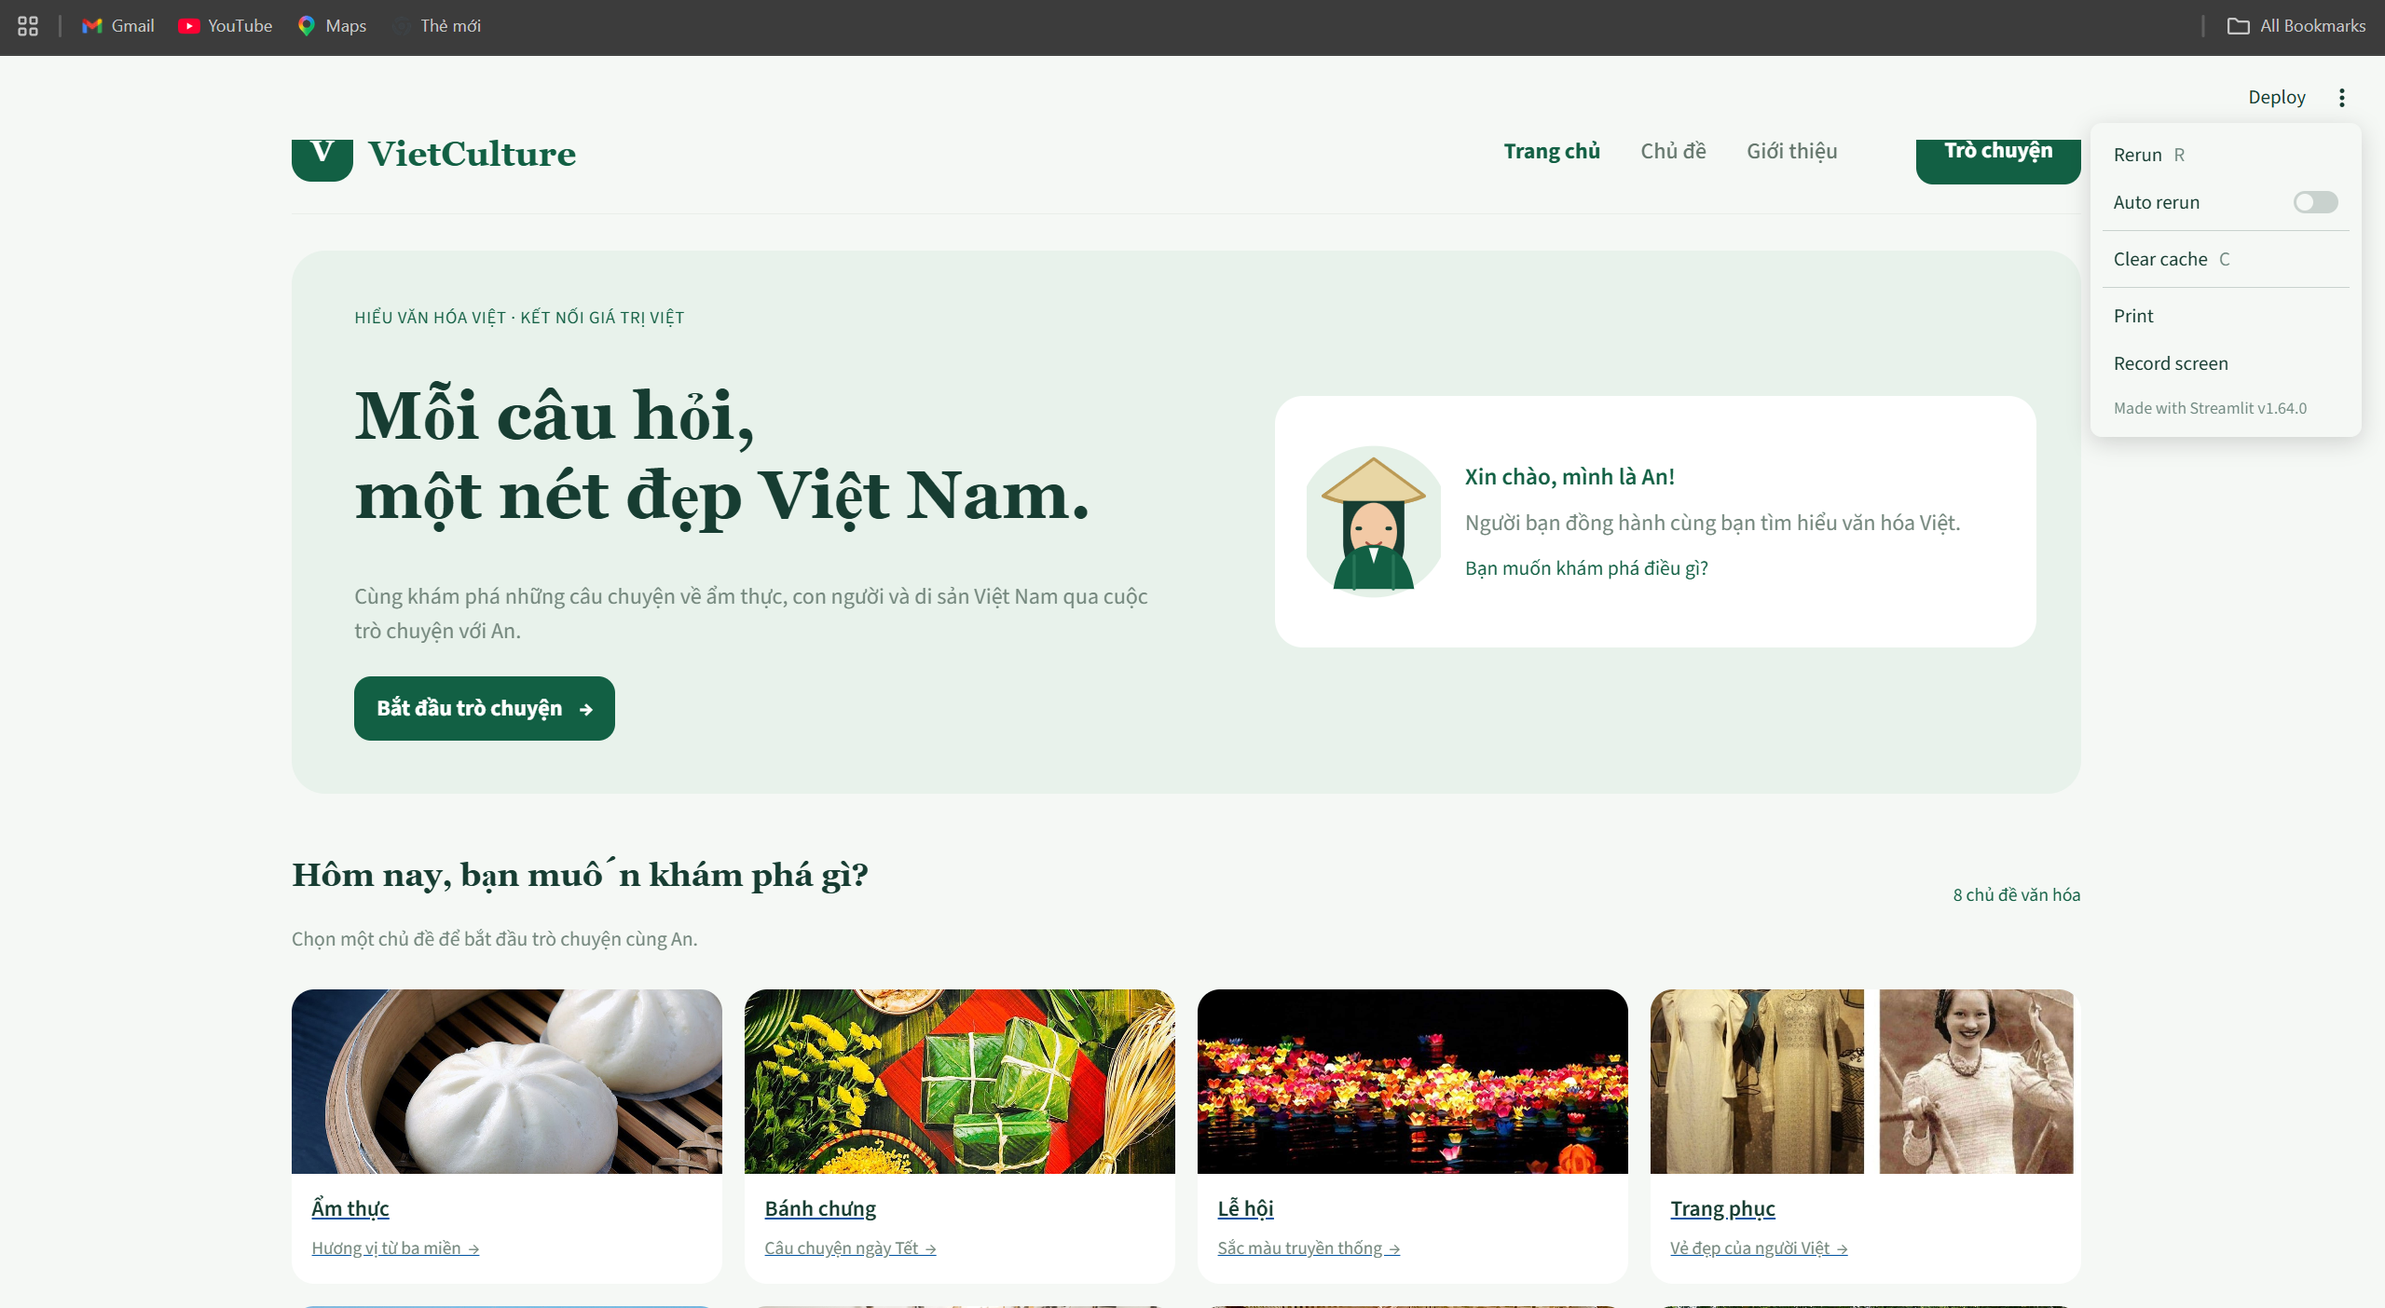
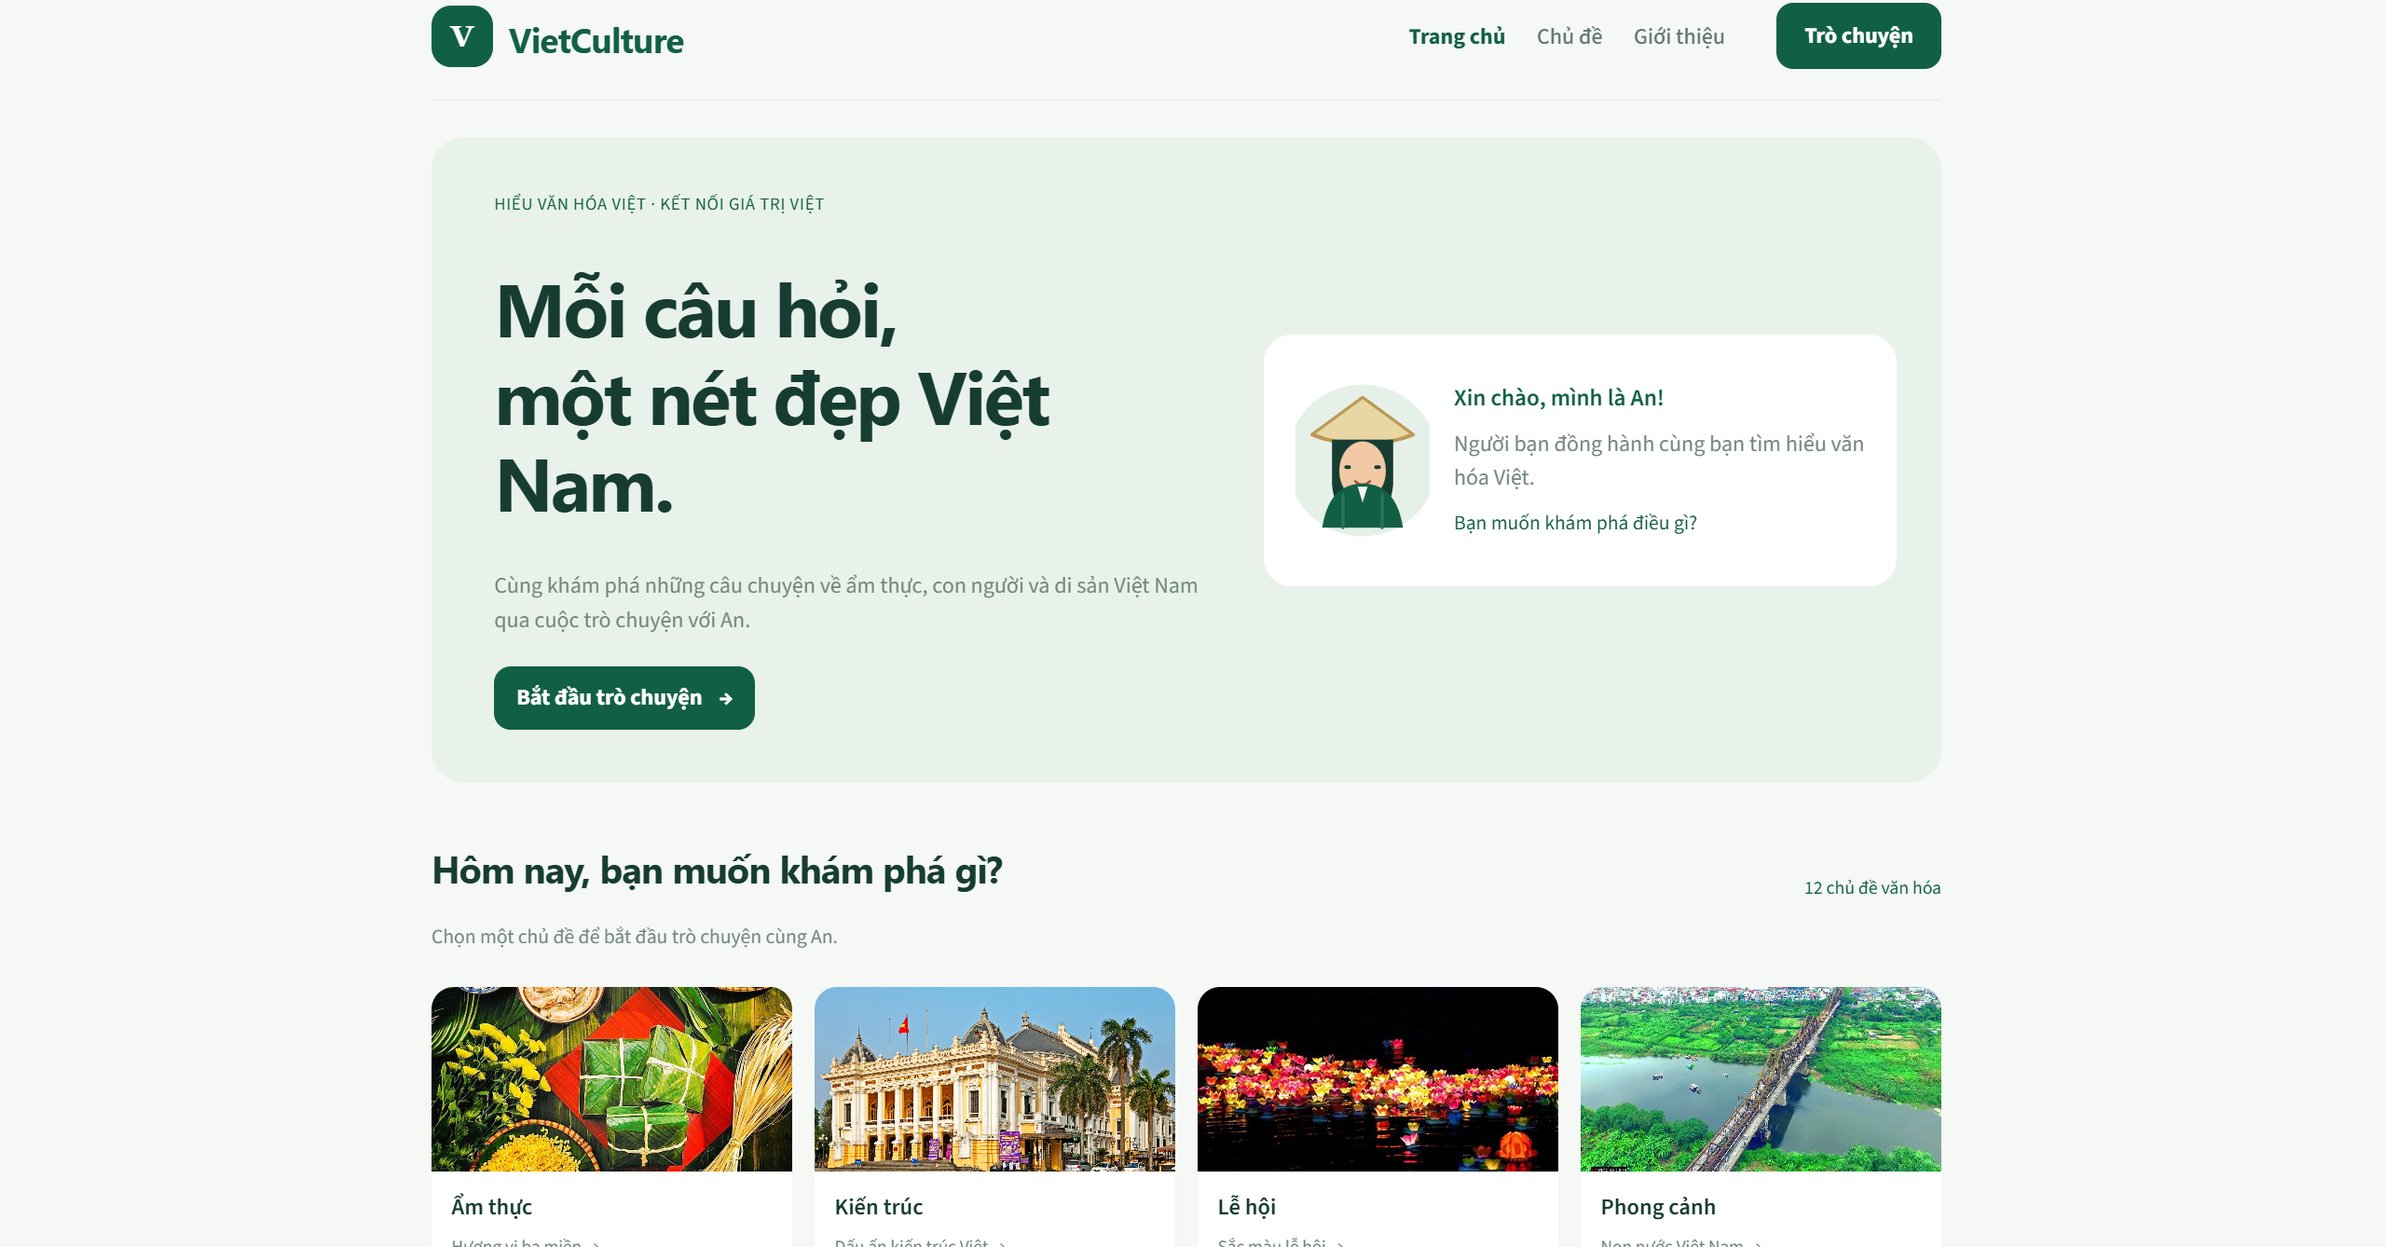
final baseline

diff --git a/README.md b/README.md
@@ -1,338 +1,79 @@
 # VietCulture Assistant
 
-VietCulture Assistant là chatbot hỏi đáp và gợi ý văn hóa Việt Nam theo hướng cá nhân hóa. Project kết hợp RAG trên ChromaDB, intent routing, long-term memory theo người dùng, recommendation dựa trên sở thích, và giao diện Streamlit có ảnh từ Hugging Face dataset.
+Chatbot hỏi đáp và gợi ý về văn hóa Việt Nam. Ứng dụng dùng RAG với ChromaDB, LangGraph để điều phối hội thoại, Streamlit cho giao diện và lưu memory theo `User ID`.
 
-Dataset tham chiếu: [Dangindev/viet-cultural-vqa](https://huggingface.co/datasets/Dangindev/viet-cultural-vqa)
+## Giao diện
 
-## Giao Diện
+### Màn hình chính — 12 chủ đề văn hóa
 
-### Màn hình chính
+![Trang chủ VietCulture với 12 chủ đề](docs/screenshots/home.png)
 
-![Màn hình chính VietCulture](docs/screenshots/home.png)
+### Trò chuyện và gợi ý chủ đề
 
-### Màn hình trò chuyện
+![Cửa sổ trò chuyện với các gợi ý cá nhân hóa](docs/screenshots/chat-recommendations.png)
 
-![Màn hình trò chuyện VietCulture](docs/screenshots/chat.png)
+### Trò chuyện hỏi đáp
 
-## Tính Năng Chính
+![Cửa sổ trò chuyện hỏi đáp về văn hóa](docs/screenshots/chat-answer.png)
 
-- Hỏi đáp văn hóa Việt Nam bằng RAG.
-- Lưu sở thích người dùng theo `User ID`.
-- Lưu danh sách hội thoại và transcript theo từng `User ID` bằng SQLite local; sidebar cho phép chuyển user và khôi phục hội thoại.
-- Gợi ý chủ đề văn hóa dựa trên memory và tài liệu retrieve được.
-- Hybrid intent router: rule-based router chạy trước, LLM chỉ fallback khi bật cấu hình.
-- Chuẩn hóa tên hiển thị sau retrieval; giữ tên nguồn để truy vết và tiếp tục trả lời nếu chuẩn hóa thất bại.
-- Khử chunk trùng nội dung trước generation và recommendation.
-- Recommendation mặc định hiển thị tối đa 5 chủ đề, lấy dư candidates trước khi khử trùng và chuẩn hóa tên.
-- Chuẩn hóa tên là bước trình bày tùy chọn; lỗi LLM không loại bỏ chunk đã retrieve.
-- Streamlit UI gồm màn chào, chat screen, avatar assistant, topic cards và recommendation cards có ảnh từ Hugging Face.
-- Hỗ trợ build Chroma index riêng từ Vietnamese Cultural VQA dataset.
+## Chạy bằng Docker
 
-## Pipeline
-
-```mermaid
-flowchart TD
-    A["User nhập message"] --> B["Streamlit UI"]
-    B --> C["LangGraph Agent"]
-    C --> D["Load memory theo User ID"]
-    D --> E["Hybrid Intent Router"]
-
-    E -->|"preference_update"| F["Trích xuất sở thích"]
-    F --> G["Lưu long-term memory JSON"]
-    G --> Z["Trả lời user"]
-
-    E -->|"memory_query"| H["Đọc memory hiện tại"]
-    H --> Z
-
-    E -->|"recommendation_request"| I["Tạo query gợi ý từ memory"]
-    I --> J["Retrieve ChromaDB"]
-    J --> K["Rerank + tạo recommendation"]
-    K --> L["Render ảnh Hugging Face nếu có metadata"]
-    L --> Z
-
-    E -->|"rag_question / followup_question"| M["Rewrite query"]
-    M --> N["Retrieve ChromaDB"]
-    N --> O["Chuẩn hóa tên topic rồi sinh câu trả lời theo documents"]
-    O --> Z
-
-    E -->|"chitchat / out_of_scope"| P["Trả lời ngắn không dùng RAG"]
-    P --> Z
-```
-
-## Cấu Trúc Project
-
-```text
-streamlit_app.py
-  Giao diện web Streamlit: welcome screen, chat, memory sidebar, ảnh Hugging Face.
-
-assets/
-  An avatar SVG dùng trong UI.
-
-src/agent/
-  config.py: đọc .env và cấu hình runtime.
-  graph.py: LangGraph pipeline cho routing, memory, RAG và recommendation.
-
-src/routing/
-  intent_router.py: rule-based intent router.
-  llm_intent_router.py: LLM fallback router.
-  routing.py: compatibility layer cho API routing cũ.
-  text_utils.py: helper chuẩn hóa text tiếng Việt.
-
-src/memory/
-  store.py: lưu/đọc memory JSON theo user_id.
-  conversation_store.py: lưu danh sách hội thoại và transcript SQLite theo user_id.
-
-src/recommendation/
-  recommender.py: tạo recommendation query và câu trả lời gợi ý có căn cứ.
-
-src/normalization/
-  canonical_names.py: chuẩn hóa topic trước generation, giữ mapping tên nguồn.
-
-src/retrieval/
-  qa_retriever.py: load ChromaDB, query embedding, lexical rerank.
-
-src/ingestion/
-  clean_qa_chunks.py: chuyển raw VQA dataset thành QA chunks sạch.
-  build_chroma_index.py: build Chroma index từ chunks.
-
-src/evaluation/
-  baseline_eval.py: test nhanh intent router và retrieval.
-
-src/evaluation/fixtures/
-  Bộ benchmark QA nhỏ để tái lập đánh giá.
-
-tests/
-  Unit test cho routing, memory, normalization và deduplication.
-
-vector_index/
-  Chroma index demo hiện tại, được theo dõi trên GitHub và đóng gói trong Docker image.
-
-docs/screenshots/
-  Ảnh màn hình chính và giao diện trò chuyện trong README.
-
-Dockerfile, compose.yaml
-  Build và chạy ứng dụng cùng Chroma index.
-
-compose.registry.yaml
-  Chạy Docker image đã được GitHub Actions publish lên GHCR.
-```
-
-## Cài Đặt
-
-Tạo môi trường Python, sau đó cài dependencies:
-
-```powershell
-python -m pip install -r requirements.txt
-```
-
-Tạo file `.env` từ mẫu:
-
-```powershell
-copy .env.example .env
-```
-
-Mặc định project dùng DeepSeek qua ViLao (API tương thích OpenAI). Điền key của bạn vào `.env`:
-
-```env
-LLM_PROVIDER=vilao
-LLM_BASE_URL=https://api.vilao.ai/v1
-LLM_API_KEY=your_vilao_api_key_here
-LLM_MODEL=chib/deepseek-v4.1-flash
-HF_TOKEN=your_huggingface_token_if_needed
-
-QA_RETRIEVER_PROFILE=legacy
-QA_CHROMA_DIR=vector_index
-QA_CHROMA_COLLECTION=vietculture_topic_qa_v1
-QA_RETRIEVER_DEVICE=cpu
-QA_TOP_K=5
-QA_FETCH_K=50
-QA_RECOMMENDATION_COUNT=5
-QA_RECOMMENDATION_CANDIDATE_POOL=15
-
-USE_LLM_INTENT_ROUTER=false
-LLM_INTENT_CONFIDENCE_THRESHOLD=0.75
-```
-
-Để bật LLM fallback cho intent chưa rõ, đổi `USE_LLM_INTENT_ROUTER=true`. Nếu muốn quay lại Gemini, đặt `LLM_PROVIDER=gemini`, `GOOGLE_API_KEY=...` và tùy chọn `GEMINI_MODEL=...`.
-
-Cài dependency mới sau khi đổi provider:
-
-```powershell
-python -m pip install -r requirements.txt
-```
-
-## Chạy Streamlit Demo
-
-```powershell
-python -m streamlit run streamlit_app.py --server.port 8501 --server.address 127.0.0.1
-```
-
-Mở:
-
-```text
-http://127.0.0.1:8501
-```
-
-Transcript chat được lưu local trong `conversations.sqlite3` (đường dẫn có thể đổi bằng `CONVERSATION_DB` trong `.env`). SQLite phù hợp cho demo một máy và bị Git ignore. `User ID` chỉ phân tách dữ liệu trong giao diện, chưa phải đăng nhập/xác thực; khi chạy nhiều máy hoặc cần nhiều người dùng thật thì nên dùng database server và lớp xác thực.
-
-Recommendation mặc định nhắm tới 5 gợi ý và lấy tối đa 15 ứng viên trước khi xếp hạng/khử trùng. Có thể đặt `QA_RECOMMENDATION_COUNT` trong khoảng 3–5 và điều chỉnh `QA_RECOMMENDATION_CANDIDATE_POOL` trong `.env`. Nếu dataset chỉ có dưới 3 chủ đề hợp lệ cho truy vấn, ứng dụng hiển thị số tìm được thay vì tự tạo chủ đề không có bằng chứng.
-
-Prompt demo:
-
-```text
-hello
-tôi thích kiến trúc
-tôi thích thể thao
-tôi thích gì?
-ý nghĩa văn hóa của bánh chưng là gì?
-gợi ý chủ đề văn hóa
-```
-
-## ChromaDB Và Dataset
-
-Project runtime cần ChromaDB local:
-
-```text
-QA_RETRIEVER_PROFILE=legacy
-QA_CHROMA_DIR=vector_index
-QA_CHROMA_COLLECTION=vietculture_topic_qa_v1
-```
-
-Index demo hiện tại trong `vector_index/` có 2,525 records và dung lượng khoảng 37 MB; được theo dõi để người clone repo build và chạy demo. Các index cũ/thử nghiệm và raw dataset vẫn không upload GitHub:
-
-```text
-chroma_db/
-chroma_db_qa_hybrid/
-chroma_db_qa_test/
-data/vietnamese_vqa_dataset.json
-data/
-.cache/
-rebuild_outputs/
-```
-
-Raw dataset đặt local tại `data/vietnamese_vqa_dataset.json` (thư mục `data/` bị ignore). Build lại index v2 bằng:
-
-```powershell
-python src\ingestion\build_topic_qa_index.py ^
-  --dataset data\vietnamese_vqa_dataset.json ^
-  --output-dir rebuild_outputs\topic_qa_v2 ^
-  --max-qa-per-topic 5 ^
-  --device cuda
-```
-
-Nếu máy không có GPU, có thể chạy bước build embedding trên Kaggle/Colab, tải thư mục Chroma về, rồi cấu hình `.env` trỏ tới thư mục đó.
-
-Sau khi build và kiểm tra index mới trong `rebuild_outputs/`, chỉ thay `vector_index/` bằng index đã được chọn để cập nhật bản demo trên GitHub và Docker image.
-
-## Chạy Bằng Docker
-
-Cài Docker Desktop, clone repo, tạo `.env` từ mẫu và điền API key LLM của bạn. Không commit `.env` lên GitHub.
+Cần Docker Desktop và API key tương thích OpenAI, ví dụ ViLao. Tạo `.env` từ mẫu rồi điền `LLM_API_KEY`:
 
 ```powershell
 Copy-Item .env.example .env
-# Mở .env và điền LLM_API_KEY
-docker compose up --build
 ```
 
-Mở `http://localhost:8501`. Docker image đóng gói index từ `vector_index/`, nên người chạy không cần mount hay tải Chroma index riêng. Lần đầu, Sentence Transformers có thể tải embedding model từ Hugging Face; cần Internet. Model cache, SQLite transcript và user memory được lưu qua Docker volumes.
-
-Compose mặc định dùng CPU để chạy embedding, phù hợp Docker Desktop phổ thông. Lần đầu có thể khởi động lâu hơn vì cài dependencies và tải model.
-
-Sau khi GitHub Actions publish image lên GitHub Container Registry, có thể chạy image đã build bằng file `compose.registry.yaml`:
+Để chạy image mới nhất đã publish trên GHCR:
 
 ```powershell
-Copy-Item .env.example .env
-# Mở .env và điền LLM_API_KEY
 docker compose -f compose.registry.yaml pull
-docker compose -f compose.registry.yaml up
+docker compose -f compose.registry.yaml up -d
 ```
 
-Nếu chỉ thay cấu hình `.env`, tạo lại container để biến môi trường mới được nạp:
+Mở <http://localhost:8501>. Image đã chứa Chroma index demo; hội thoại và memory được lưu local qua Docker volumes. Lần chạy đầu có thể tải embedding model từ Hugging Face.
+
+Để build image trực tiếp từ source:
 
 ```powershell
-docker compose -f compose.registry.yaml up -d --force-recreate
+docker compose up --build -d
 ```
 
-## Ảnh Hugging Face Trong UI
-
-Streamlit không download ảnh về máy. UI dựng URL ảnh theo format:
-
-```text
-https://huggingface.co/datasets/Dangindev/viet-cultural-vqa/resolve/main/images/<category>/<folder>/<file>
-```
-
-Welcome screen dùng ảnh mẫu từ Hugging Face. Recommendation cards lấy `image_path` từ metadata trong Chroma; app không cần đọc raw dataset khi chạy.
-
-## Chạy Evaluation
-
-Evaluation baseline kiểm tra intent router và retrieval, không gọi API trả phí:
+## Chạy local để phát triển
 
 ```powershell
-python -m src.evaluation.baseline_eval --persist-dir vector_index --collection vietculture_topic_qa_v1 --device cpu
+python -m pip install -r requirements.txt
+Copy-Item .env.example .env
+python -m streamlit run streamlit_app.py --server.port 8501
 ```
 
-Bộ benchmark 240 câu nằm trong `src/evaluation/fixtures/`; output sinh ra trong `data/` và bị Git ignore.
+Trong `.env`, cấu hình `LLM_API_KEY`. Mặc định project dùng ViLao/DeepSeek; có thể xem các tùy chọn khác trong `.env.example`.
 
-## Quy Tắc Code Trong Project
+## Tính năng
 
-Kiểm tra deterministic behavior mà không gọi LLM:
+- Hỏi đáp có căn cứ trên VietCulturalVQA qua ChromaDB.
+- Gợi ý 3–5 chủ đề dựa trên sở thích và tài liệu truy xuất được.
+- Hybrid intent routing, chuẩn hóa tên chủ đề và khử trùng lặp.
+- Memory người dùng và lịch sử hội thoại SQLite trên máy chạy ứng dụng.
+- Hỗ trợ 12 nhóm văn hóa. Dataset tham chiếu: [VietCulturalVQA](https://huggingface.co/datasets/Dangindev/viet-cultural-vqa).
+
+## Kiểm thử
 
 ```powershell
 python -m unittest discover -s tests -v
-python -m src.evaluation.baseline_eval --persist-dir vector_index --collection vietculture_topic_qa_v1 --device cpu
 ```
 
-Khi thêm hoặc sửa file Python, project ưu tiên:
-
-- Comment và docstring bằng tiếng Việt.
-- Đầu file nói rõ mục đích và flow chính.
-- Trước mỗi hàm nên có mô tả biến đầu vào, ví dụ output và cách tự viết lại.
-- Giữ module nhỏ, dễ đọc: routing, memory, recommendation, retrieval tách riêng.
-
-Hướng dẫn nội bộ và notebook cá nhân không nằm trong repository phát hành.
-
-## Checklist Trước Khi Upload GitHub
-
-Không upload các file local hoặc dữ liệu lớn:
+## Cấu trúc chính
 
 ```text
-.env
-.streamlit/secrets.toml
-.cache/
-chroma_db/
-chroma_db_qa_hybrid/
-chroma_db_qa_test/
-data/vietnamese_vqa_dataset.json
-data/
-reports/
-notebooks/
-.agents/
-Design/
-user_memories.json
-conversations.sqlite3
-__pycache__/
-runtime/
+streamlit_app.py       Giao diện Streamlit
+src/agent/             Cấu hình và LangGraph pipeline
+src/routing/           Phân loại intent
+src/retrieval/         Truy xuất và rerank ChromaDB
+src/recommendation/    Tạo gợi ý có căn cứ
+src/normalization/     Chuẩn hóa tên hiển thị
+src/memory/            Memory người dùng và hội thoại SQLite
+vector_index/          Chroma index demo
+tests/                 Unit tests
+docs/screenshots/      Ảnh trong README
 ```
-
-Ngoại lệ dữ liệu được theo dõi: `vector_index/` là Chroma index demo đang dùng (2,525 records, khoảng 37 MB). GitHub Actions dùng index này để build và publish image `ghcr.io/khanhdao1512/vietculture-rag`.
-
-Kiểm tra trước khi commit:
-
-```powershell
-git status --short
-python -m py_compile streamlit_app.py
-python -m compileall src
-```
-
-Không commit `.env`, runtime memory, SQLite transcript, cache model, raw dataset, notebook hoặc report. `vector_index/` là index demo duy nhất được theo dõi để Docker build tái lập được.
-
-Sau lần publish đầu, GitHub Container Registry có thể để package ở chế độ private. Nếu muốn người dùng tải image công khai, đổi package visibility thành Public trong phần package settings của GitHub.
-
-## Hạn Chế Hiện Tại
-
-- Memory đang lưu bằng JSON, phù hợp demo nhưng chưa tối ưu cho nhiều user đồng thời.
-- Khi mở lại thread sau khi app restart, transcript SQLite được nạp làm ngữ cảnh cho LangGraph.
-- Index legacy có thể thiếu `image_path`; khi đó UI dựng URL bằng fallback theo category/topic.
-- Một số keyword trong dataset/index còn lẫn không dấu, có thể làm recommendation text chưa thật đẹp.
-- Chưa phải production system: chưa có auth, database server, rate limit hoặc logging đầy đủ.
-
